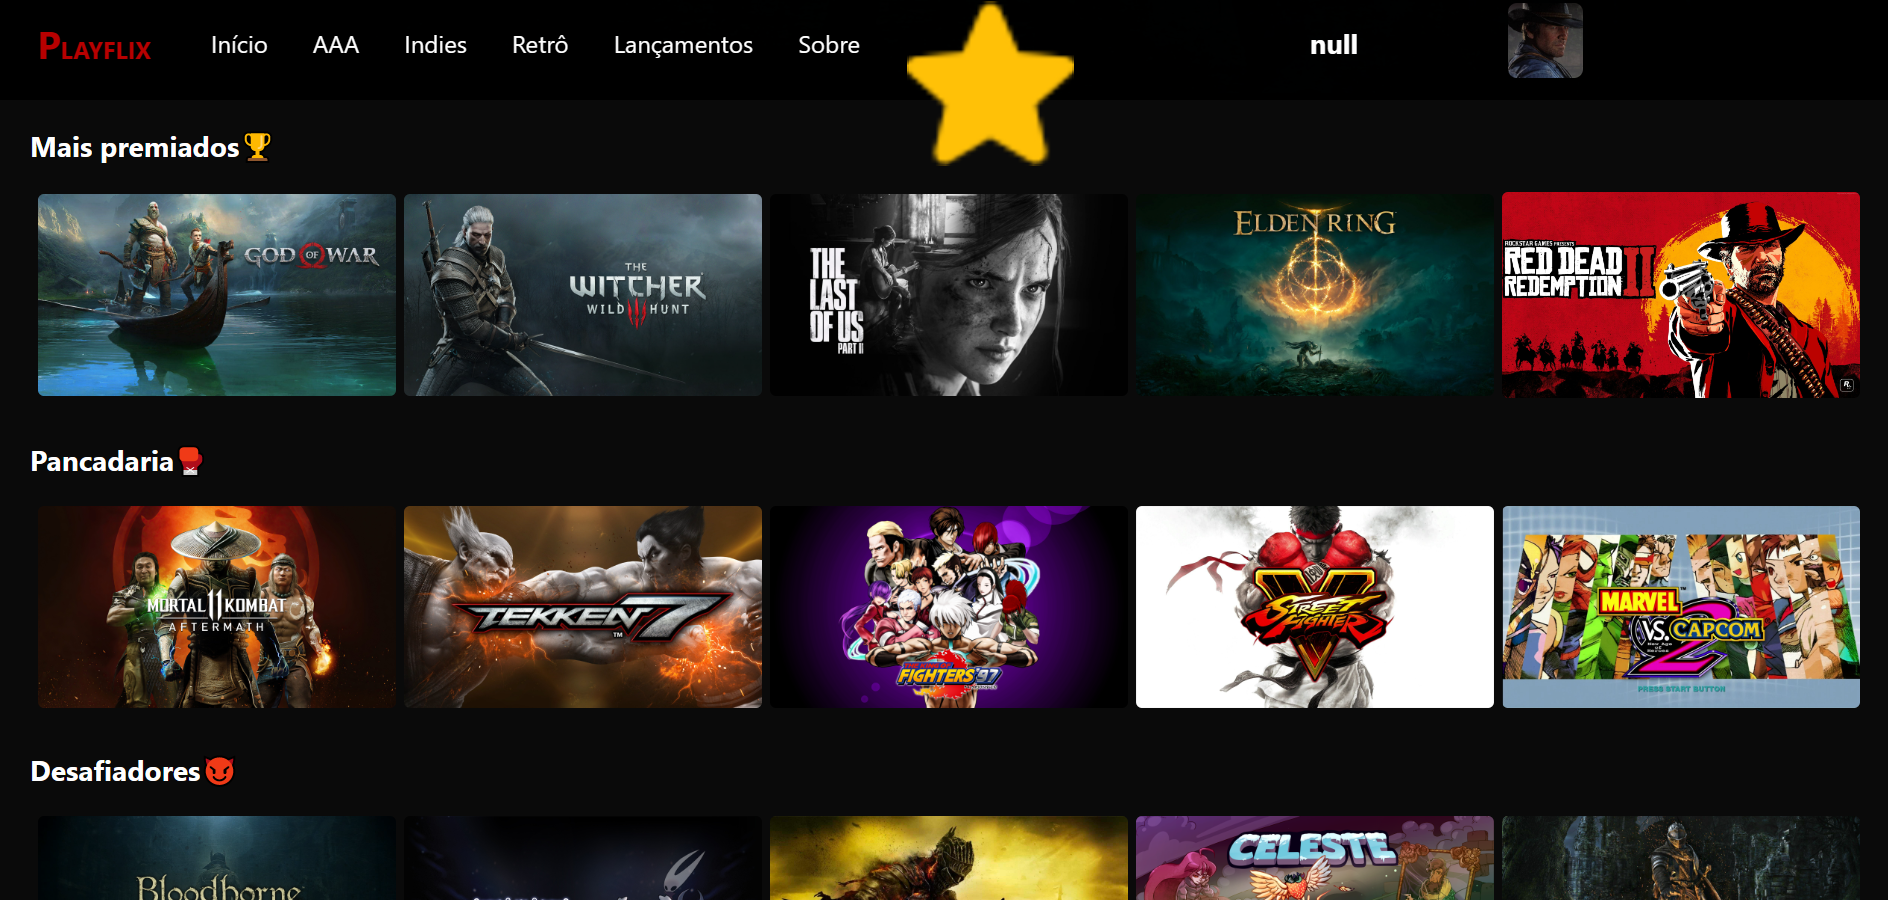
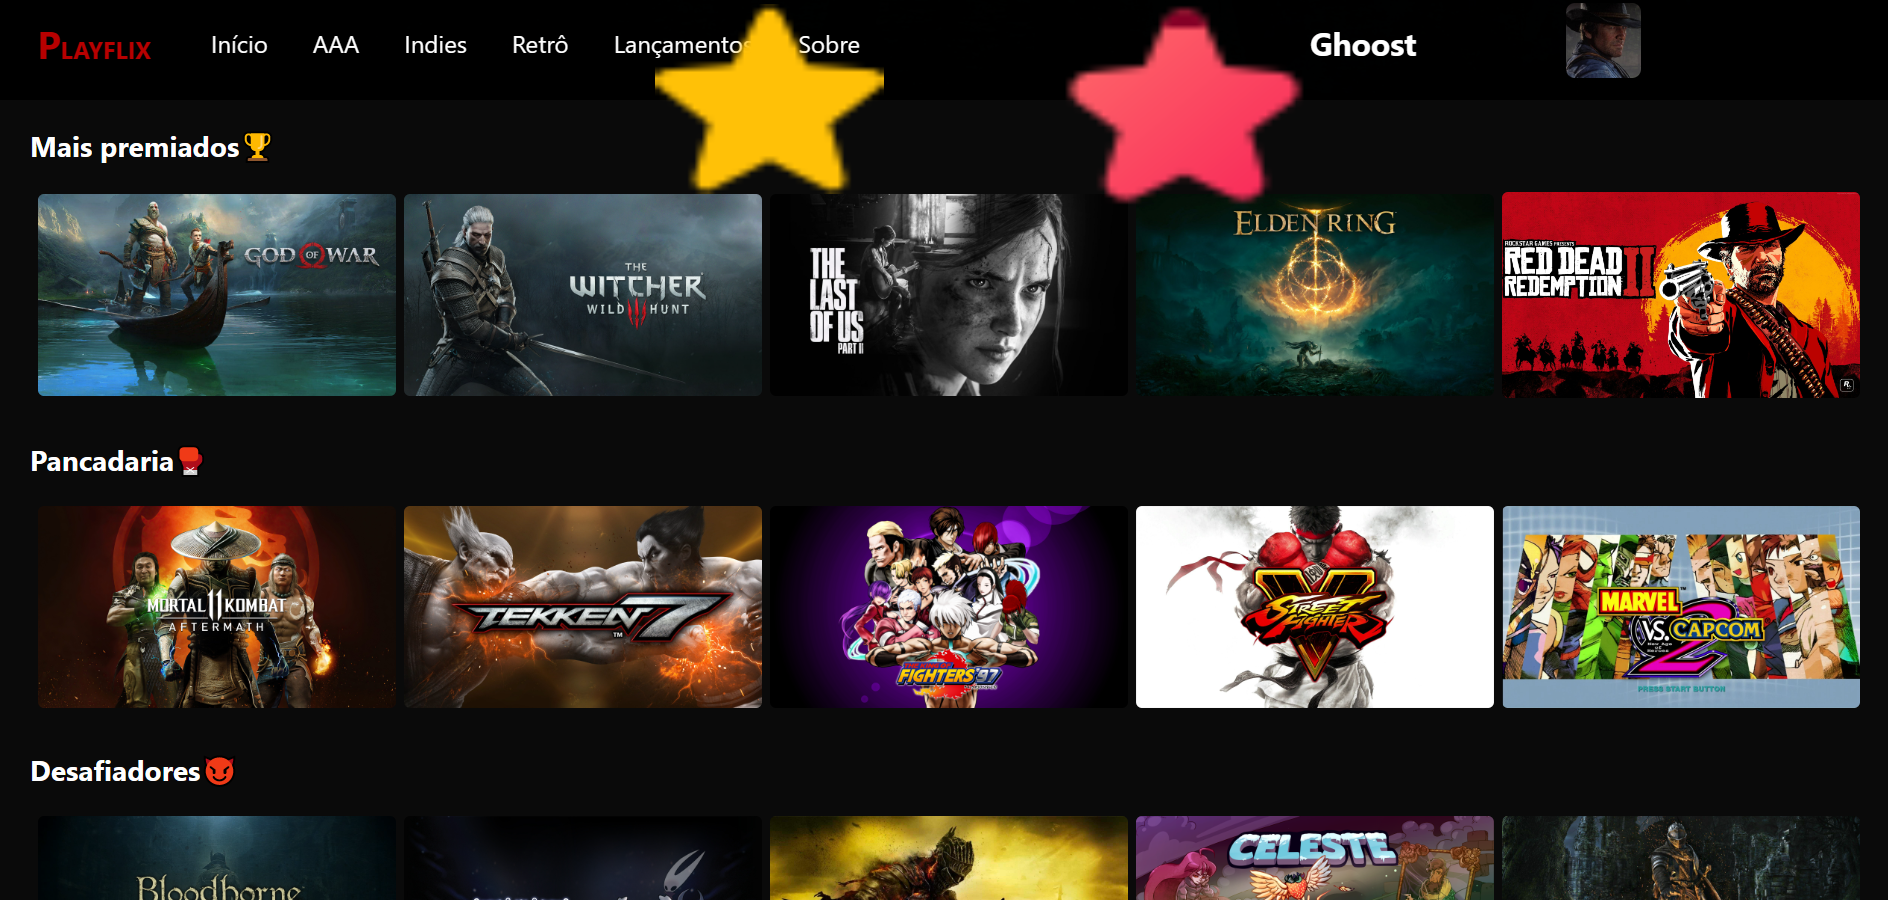
new project

Changed region(s): [[0.3438, 0.0, 0.6875, 0.2178], [0.7812, 0.0, 0.875, 0.0933], [0.6875, 0.0311, 0.75, 0.0622]]

diff --git a/src/Site.jsx b/src/Site.jsx
@@ -1,12 +1,15 @@
 import ScrollReveal from 'scrollreveal'
 
+import Hollow from './img/hollow-knight.png'
 import Github from './img/github.png'
 import GoldStar from './img/gold star.png'
 import BlueStar from './img/blue star.png'
+import RedStar from './img/red star.png'
+import IceStar from './img/especial star.png'
 
 import Playflix from './img/playflix.png'
 import ClassicTracks from './img/trilhas-classicas.png'
-import LandingPage from './img/landing-page.png'
+import FutureCorp from './img/future-corp.png'
 import RelaxingForm from './img/relaxing-form.png'
 import JumperMario from './img/jumper-mario.png'
 import TopMovies from './img/top-5-filmes.png'
@@ -14,16 +17,17 @@ import TopMovies from './img/top-5-filmes.png'
 import { Navbar } from "./components/Navbar";
 import { useEffect } from 'react'
 
-import { ContainerAll, Intro, IntroTitle, IntroDescrip, IntroImgs } from "./Styles/Intro";
-import { AboutMe, AboutMeTitle, AboutMeDescrip } from "./Styles/AboutMe"
-import { Languages, LanguagesTitle, LanguagesExamples, LanguagesExamplesTitle, LanguagesExamplesLang, LanguagesExamplesDescrips } from "./Styles/Languages";
-import { Details, DetailsTitle, DetailsDescrip, DetailsLinkGit, DetailsLinkFigs } from "./Styles/Details";
-import { ContainerFooter, Contact, ContactForms, ContactFormsLink } from "./Styles/FooterStyle";
-import { Projects, ProjectsDescrip, ProjectsDetails, ProjectsImgs, ProjectsSubTitle, ProjectsTitle } from './Styles/Projects';
+import { ContainerAll, Intro, IntroTitle, IntroDescrip, IntroImgs } from "./styles/Intro";
+import { AboutMe, AboutMeTitle, AboutMeDescrip, AboutMeStrong, About, AboutImg, Img, ImgDetail } from "./styles/About"
+import { Languages, LanguagesTitle, LanguagesExamples, LanguagesExamplesTitle, LanguagesExamplesLang, LanguagesExamplesDescrips } from "./styles/Languages";
+import { Details, DetailsTitle, DetailsDescrip, DetailsLinkGit, DetailsLinkFigs } from "./styles/Details";
+import { ContainerFooter, Contact, ContactForms, ContactFormsLink } from "./styles/FooterStyle";
+import { Projects, ProjectsDescrip, ProjectsDetails, ProjectsImgs, ProjectsSubTitle, ProjectsTitle } from './styles/Projects';
 
 const Site = () => {
   const revealAbout = () => {
     ScrollReveal().reveal('.about', {reset: false, duration: 1500, delay: 300, origin: 'right', distance: '30px'})
+    ScrollReveal().reveal('.about-img', {reset: false, duration: 1500, delay: 700, origin: 'left', distance: '30px'})
   }
 
   const revealLanguages = () => {
@@ -63,18 +67,28 @@ const Site = () => {
         <IntroDescrip>Aqui você encontrará mais detalhes sobre a minha pessoa, minha relação com a programação, as linguagens na qual eu tenho domínio, e claro, meus projetos.</IntroDescrip>
       </Intro>
 
-      <AboutMe className='about' id='about'>
-        <AboutMeTitle>Sobre mim</AboutMeTitle>
-        <AboutMeDescrip>
-          Olá, meu nome é Wesley Felix, tenho 18 anos e eu nasci e moro atualmente em São Paulo. Terminei o ensino médio e depois de mais de um ano estudando a área, eu pretendo me ingressar nela o mais possível.
-        </AboutMeDescrip>
-        <AboutMeDescrip>
-          Eu descobri que a carreira de desenvolvedor é perfeita para mim pois desde pequeno eu sempre utilizei computadores e sou apaixonado por tecnologia, eu só não sabia que a programação em si existia, mas ela sempre esteve comigo em todos os lugares, pois sem ela, não existiria absolutamente nada dentro deste mundo que eu tanto gosto.
-        </AboutMeDescrip>
-        <AboutMeDescrip>
-          O meu hobbie predileto (além de programar é claro) é jogar videogame. Descobri o mundo dos games aos 5 anos e daí em diante nunca mais parei. Quando eu misturo programação com jogos eu sinto que eu ganho mais desempenho ao codar, pois eu estou trabalhando ali com algo que eu realmente gosto. Obs: <em>Ghoost</em> é meu nickname em praticamente todos os games que jogo atualmente
-        </AboutMeDescrip>
-      </AboutMe>
+
+      <About id='about'>
+        <AboutImg className='about-img'>
+          <Img src={Hollow}/>
+          <ImgDetail>
+            <h5>Hollow Knight, um dos meus personagens favoritos.</h5>
+          </ImgDetail>
+        </AboutImg>
+        <AboutMe className='about'>
+          <AboutMeTitle>Sobre mim</AboutMeTitle>
+          <AboutMeDescrip>
+            Olá, meu nome é <AboutMeStrong>Wesley Felix</AboutMeStrong>, sou um <AboutMeStrong>desenvolvedor front-end jr</AboutMeStrong>, tenho 18 anos, e nasci e moro atualmente em São Paulo. Terminei o ensino médio e depois de mais de um ano estudando programação, eu pretendo me ingressar na área o mais breve possível.
+          </AboutMeDescrip>
+          <AboutMeDescrip>
+            Eu descobri que a carreira de desenvolvedor é perfeita para mim pois desde pequeno eu sempre utilizei computadores e sou <AboutMeStrong>apaixonado por tecnologia</AboutMeStrong>, eu só não sabia que a programação em si existia, mas ela sempre esteve comigo em todos os lugares, pois sem ela, não existiria absolutamente nada dentro deste mundo que eu tanto gosto.
+          </AboutMeDescrip>
+          <AboutMeDescrip>
+            O meu hobbie predileto (além de programar é claro) é <AboutMeStrong>jogar videogame</AboutMeStrong>. Descobri o mundo dos games aos 5 anos e daí em diante nunca mais parei. Quando eu misturo <AboutMeStrong>programação com jogos</AboutMeStrong> eu sinto que eu ganho mais desempenho ao codar, pois eu estou trabalhando ali com algo que eu realmente gosto. Obs: <em>Ghoost</em> é meu nickname em praticamente todos os games que jogo atualmente.
+          </AboutMeDescrip>
+        </AboutMe>
+      </About>
+
       
       <LanguagesTitle className='lang-title' id='languages'>Linguagens utilizadas</LanguagesTitle>
       <Languages>
@@ -92,23 +106,29 @@ const Site = () => {
           <LanguagesExamplesDescrips><LanguagesExamplesLang>Git: </LanguagesExamplesLang>Commits, branchs, e deploy no Github.</LanguagesExamplesDescrips>
         </LanguagesExamples>
       </Languages>
+
       
       <ProjectsTitle className='project-title' id='projects'>Principais Projetos</ProjectsTitle>
       <ProjectsSubTitle className='project-subtitle'>Esses são os que considero como meus principais projetos, pois sinto que foi principalmente com estes que mais aprendi. Outros projetos podem ser acessados no meu <a href="https://github.com/WesleyGhoost">Github</a></ProjectsSubTitle>
-      <ProjectsSubTitle className='project-subtitle'>Os projetos com a estrela dourada <img src={GoldStar} alt="estrela dourada" /> representam os projetos que foram feitos 100% por mim, já os com a estrela azul <img src={BlueStar} alt="estrela azul" />representam projetos nos quais eu somente acrescentei novos conteúdos.</ProjectsSubTitle>
+      <ProjectsSubTitle className='project-subtitle'>Os projetos estão demarcados com estrelas, onde as mesmas representam certos aspectos.</ProjectsSubTitle>
+      <ProjectsSubTitle className='project-subtitle'><img src={GoldStar} alt="estrela dourada" />= Projeto 100% feito por mim.</ProjectsSubTitle>
+      <ProjectsSubTitle className='project-subtitle'><img src={RedStar} alt="estrela vermelha" />= Melhor projeto.</ProjectsSubTitle>
+      <ProjectsSubTitle className='project-subtitle'><img src={IceStar} alt="estrela de gelo" />= Melhor estrutura e separação de código.</ProjectsSubTitle>
+      <ProjectsSubTitle className='project-subtitle'><img src={BlueStar} alt="estrela azul" />= Projeto que não é meu, porém, possui diferenciações feitas por mim.</ProjectsSubTitle>
       <Projects>
-        <a className='projects' id='firstElement' href="https://playflix-six.vercel.app/"><ProjectsImgs height="200" width="380" src={Playflix} alt="Playflix" /></a>
-        <a className='projects' id='thirdElement' href="https://wesleyghoost.github.io/Trilhas-Sonoras-Classicas-de-Games/"><ProjectsImgs height="200" width="380" src={ClassicTracks} alt="Landing Page" /></a>
-        <ProjectsDetails className='project-details' id='secondElement'>
+        <a className='projects' id='firstProject' href="https://playflix-six.vercel.app/"><ProjectsImgs height="200" width="380" src={Playflix} alt="Playflix" /></a>
+        <a className='projects' id='secondProject' href="https://wesleyghoost.github.io/Trilhas-Sonoras-Classicas-de-Games/"><ProjectsImgs height="200" width="380" src={ClassicTracks} alt="Landing Page" /></a>
+        <ProjectsDetails className='project-details' id='firstDetail'>
           <summary>PlayFlix</summary>
           <ProjectsDescrip className='project-descrip'>
-            Serviço de games ao estilo Netflix. Projeto focado no uso de ReactJS, com a utilização de React-Router-Dom para criar diversas rotas, e React-Modal para gerar modais a partir de interações. Com responsivo para todos os tipos de aparelhos.
+            Serviço de games ao estilo Netflix. Projeto focado no uso de ReactJS, com a utilização de React-Router-Dom para criar diversas rotas, e React-Modal para gerar modais a partir de interações. Com responsivo para todos os aparelhos.
           </ProjectsDescrip>
           <ProjectsDescrip>
             Repositório: <a href="https://github.com/WesleyGhoost/PlayFlix">playflix</a>
           </ProjectsDescrip>
         </ProjectsDetails>
-        <ProjectsDetails className='project-details' id='fourthElement'>
+
+        <ProjectsDetails className='project-details' id='secondDetail'>
           <summary>Trilhas Sonoras de Games</summary>
           <ProjectsDescrip className='project-descrip'>
             Mais um projeto voltado ao mundo de games. Esse projeto tem foco na utilização da tag audio do html, junto com informações precisas sobre o conteúdo, e apresenta responsividade para desktop e aparelhos com tela entre 500 e 600 pixels.
@@ -117,9 +137,10 @@ const Site = () => {
             Repositório: <a href="https://github.com/WesleyGhoost/Trilhas-Sonoras-Classicas-de-Games">trilhas-de-games</a>
           </ProjectsDescrip>
         </ProjectsDetails>
-        <a className='projects' id='fifthElement' href="https://wesleyghoost.github.io/Relaxing-Form/"><ProjectsImgs height="200" width="380" src={RelaxingForm} alt="Relaxing Form" /></a>
-        <a className='projects' id='seventhElement'href="https://wesleyghoost.github.io/Landing-page/"><ProjectsImgs height="200" width="380" src={LandingPage} alt="Landing Page" /></a>
-        <ProjectsDetails className='project-details' id='sixthElement'>
+
+        <a className='projects' id='thirdProject' href="https://wesleyghoost.github.io/Relaxing-Form/"><ProjectsImgs height="200" width="380" src={RelaxingForm} alt="Relaxing Form" /></a>
+        <a className='projects' id='fourthProject' href="https://future-corp.vercel.app/"><ProjectsImgs height="200" width="380" src={FutureCorp} alt="Future Corp" /></a>
+        <ProjectsDetails className='project-details' id='thirdDetail'>
           <summary>Relaxing Form</summary>
           <ProjectsDescrip className='project-descrip'>
             Formulário com músicas relaxantes (lofi) para o usuário preencher o mesmo no seu próprio tempo. Utilizei Glider.js para ocorrer a transição do formulário de etapa em etapa, Bulma.CSS para o container geral do site, Animate.css para abertura no primeiro card e EmailJS para envio das respostas do usuário para o email do mesmo. Responsivo para Desktop e aparelhos com telas entre 600 e 758 pixels.
@@ -128,18 +149,20 @@ const Site = () => {
             Repositório: <a href="https://github.com/WesleyGhoost/Relaxing-Form">relaxing-form</a>
           </ProjectsDescrip>
         </ProjectsDetails>
-        <ProjectsDetails className='project-details' id='eighthElement'>
-          <summary>Landing Page</summary>
+
+        <ProjectsDetails className='project-details' id='fourthDetail'>
+          <summary>Future Corp</summary>
           <ProjectsDescrip className='project-descrip'>
-            Landing page para uma empresa de tecnologia fictícia, onde a mesma produz chips cibernéticos, garantindo certos benefícios para o cliente.
+            Landing page para uma empresa de tecnologia fictícia, onde a mesma contém projetos com tecnologias super avançadas. Projeto realizado com ReactJS, utilizando styled-components para estilização, e react-router-dom para alternância das páginas. Responsivo para todos os dispositivos.
           </ProjectsDescrip>
           <ProjectsDescrip>
-            Repositório: <a href="https://github.com/WesleyGhoost/Landing-page">landing-page</a>
+            Repositório: <a href="https://github.com/WesleyGhoost/Future-Corp">future-corp</a>
           </ProjectsDescrip>
-        </ProjectsDetails>  
-        <a className='projects' id='ninthElement' href="https://codepen.io/_Ghoost_/pen/PoOMXpr"><ProjectsImgs height="200" width="380" src={TopMovies} alt="Top 5 Movies" /></a>  
-        <a className='projects' id='eleventhElement' href="https://wesleyghoost.github.io/Jumper-Mario/"><ProjectsImgs height="200" width="380" src={JumperMario} alt="Jumper Mario" /></a>
-        <ProjectsDetails className='project-details' id='tenthElement'>
+        </ProjectsDetails>
+
+        <a className='projects' id='fifthProject' href="https://codepen.io/_Ghoost_/pen/PoOMXpr"><ProjectsImgs height="200" width="380" src={TopMovies} alt="Top 5 Movies" /></a>  
+        <a className='projects' id='sixthProject' href="https://wesleyghoost.github.io/Jumper-Mario/"><ProjectsImgs height="200" width="380" src={JumperMario} alt="Jumper Mario" /></a>
+        <ProjectsDetails className='project-details' id='fifthDetail'>
           <summary>Top 5 Filmes</summary>
           <ProjectsDescrip className='project-descrip'>
             Projeto realizado em uma imersão dev da <em>Alura</em>. Um projeto para listar nossos filmes favoritos. Ele utiliza Javascript para a inserção das imagens. <strong>Diferenciação:</strong> Utilizei do que havia aprendido na época para procurar e acrescentar os meus filmes favoritos, fazendo minha própria lista.
@@ -148,7 +171,8 @@ const Site = () => {
             Repositório: <a href="https://github.com/WesleyGhoost/Meu-Top-5-Filmes">top-filmes</a>
           </ProjectsDescrip>
         </ProjectsDetails>
-        <ProjectsDetails className='project-details' id='twelfthElement'>
+
+        <ProjectsDetails className='project-details' id='sixthDetail'>
           <summary>Jumper Mario</summary>
           <ProjectsDescrip className='project-descrip'>
           Fiz este projeto me baseando no vídeo do <em>Manual do Dev</em>. Este projeto trás uma projeção bem parecida do que seria o sistema de pulo do personagem Mario em seus jogos. Você utiliza qualquer botão para pular sobre os canos, e quando você encosta em um deles, fim de jogo. <strong>Diferenciação:</strong> Um container de referenciação ao Game Over aparece, e é possível reiniciar o jogo a partir do mesmo.
@@ -159,6 +183,7 @@ const Site = () => {
         </ProjectsDetails>
       </Projects>
 
+
       <Details className='details' id='details'>
         <DetailsTitle>Detalhes do site</DetailsTitle>
         <DetailsDescrip>Este site foi construído com a utilização da linguagem <em>React</em>, juntamente com a sua mais moderna biblioteca de estilização, o <em>styled-components</em>, sua outra biblioteca voltada ao scroll do site, <em>react-scroll</em>, e por fim, o <em>scroll-reveal</em>, que é capaz de revelar o conteúdo do site conforme o usuário for deslizando-o. Sendo também o mesmo, responsivo nos mais diversos tipos de telas (mobile, tablet, desktop, entre outros.)</DetailsDescrip>
@@ -166,7 +191,10 @@ const Site = () => {
         <DetailsLinkFigs href="https://www.flaticon.com/br/icones-gratis/github" title="github ícones">Github ícones criados por Pixel perfect - Flaticon</DetailsLinkFigs>
         <DetailsLinkFigs href="https://www.flaticon.com/free-icons/star" title="star icons">Star icons created by Pixel perfect - Flaticon</DetailsLinkFigs>
         <DetailsLinkFigs href="https://www.flaticon.com/free-icons/star" title="star icons">Star icons created by Vectors Market - Flaticon</DetailsLinkFigs>
+        <DetailsLinkFigs href="https://www.flaticon.com/free-icons/star" title="star icons">Star icons created by mim_studio - Flaticon</DetailsLinkFigs>
+        <DetailsLinkFigs href="https://www.flaticon.com/free-icons/star" title="star icons">Star icons created by Smashicons - Flaticon</DetailsLinkFigs>
       </Details>
+
 
       <ContainerFooter>
         <Contact>Contatos:</Contact>

diff --git a/src/Styles/About.jsx b/src/Styles/About.jsx
@@ -1,0 +1,76 @@
+import styled from 'styled-components'
+
+export const About = styled.section`
+  width: 100%;
+  margin-top: 150px;
+  display: flex;
+  align-items: center;
+  justify-content: center;
+
+  @media screen and (min-width: 320px) and (max-width: 768px){
+    margin-top: 80px;
+    flex-direction: column;
+  }
+`;
+
+export const AboutImg = styled.div`
+  width: 50%;
+  display: flex;
+  flex-direction: column;
+  align-items: center;
+  justify-content: center;
+`
+
+export const Img = styled.img`
+  width: 200px;
+  height: 200px;
+
+  @media screen and (min-width: 320px) and (max-width: 768px){
+    width: 160px;
+    height: 160px;
+  }
+`
+
+export const ImgDetail = styled.details`
+  text-align: center;
+  font-size: 13px;
+  color: #ffffffb0;
+
+  @media screen and (min-width: 320px) and (max-width: 480px){
+    font-size: 16px;
+    h5 {
+      font-size: 13px;
+    }
+  }
+`
+
+export const AboutMe = styled.div`
+  width: 50%;
+  padding: 20px;
+  display: flex;
+  flex-direction: column;
+  align-items: center;
+  justify-content: center;
+
+  @media screen and (min-width: 320px) and (max-width: 768px){
+    width: 80%;
+    padding: 0;
+  }
+`
+
+export const AboutMeTitle = styled.h1`
+  color: #208000bd;
+  border-bottom: 2px solid #208000bd;
+
+  @media screen and (min-width: 320px) and (max-width: 768px){
+    margin-top: 80px;
+  }
+`;
+
+export const AboutMeDescrip = styled.h3`
+  color: #ffffffbb;
+`
+
+export const AboutMeStrong = styled.strong`
+  color: #3c8000a4;
+`

diff --git a/src/Styles/Projects.jsx b/src/Styles/Projects.jsx
@@ -10,7 +10,7 @@ export const Projects = styled.section`
   row-gap: 40px;
 
   @media screen and (min-width: 1024px) and (max-width: 1200px)  {
-    width: 96%;
+    width: 97%;
   }
 
   @media screen and (min-width: 769px) and (max-width: 1023px)  {
@@ -26,40 +26,40 @@ export const Projects = styled.section`
     align-items: center;
     gap: 60px;
 
-    #firstElement {
+    #firstProject {
       order: 1;
     }
-    #secondElement {
+    #firstDetail {
       order: 2;
     }
-    #thirdElement {
+    #secondProject {
       order: 3;
     }
-    #fourthElement {
+    #secondDetail {
       order: 4;
     }
-    #fifthElement {
+    #thirdProject {
       order: 5;
     }
-    #sixthElement {
+    #thirdDetail {
       order: 6;
     }
-    #seventhElement {
+    #fourthProject {
       order: 7;
     }
-    #eighthElement {
+    #fourthDetail {
       order: 8;
     }
-    #ninthElement {
+    #fifthProject {
       order: 9;
     }
-    #tenthElement {
+    #fifthDetail {
       order: 10;
     }
-    #eleventhElement {
+    #sixthProject {
       order: 11;
     }
-    #twelfthElement {
+    #sixthDetail {
       order: 12;
     }
   }

diff --git a/src/components/Navbar.jsx b/src/components/Navbar.jsx
@@ -1,7 +1,7 @@
 import '../index.css'
 
 import { useEffect, useState } from "react"
-import { NavList } from "../Styles/NavbarStyle"
+import { NavList } from "../styles/NavbarStyle"
 import {Link} from 'react-scroll'
 
 export const Navbar = () => {

diff --git a/src/Styles/FooterStyle.jsx b/src/Styles/FooterStyle.jsx
@@ -8,6 +8,7 @@ export const ContainerFooter = styled.footer`
   align-items: flex-start;
   padding: 10px;
   background-color: #ffffff17;
+  border-radius: 5px;
 `
 
 export const Contact = styled.h3`
